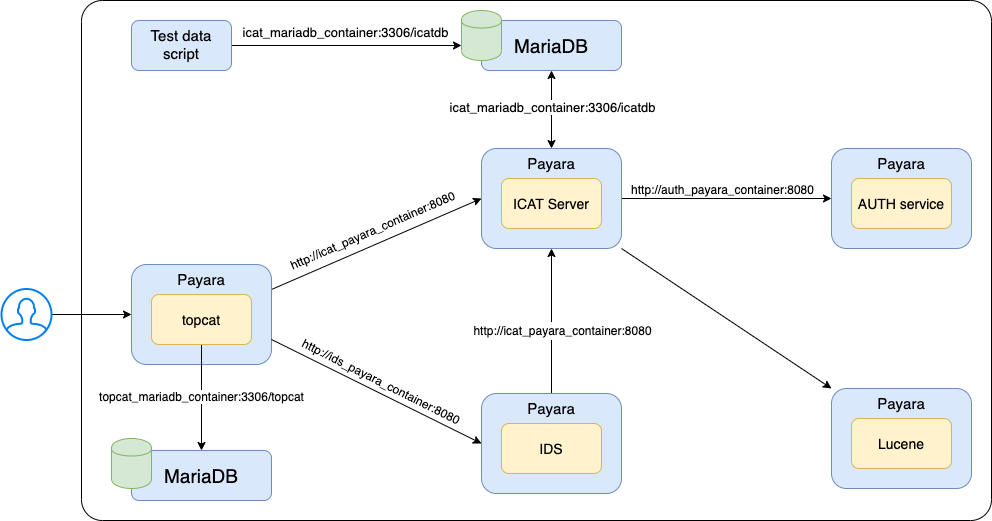
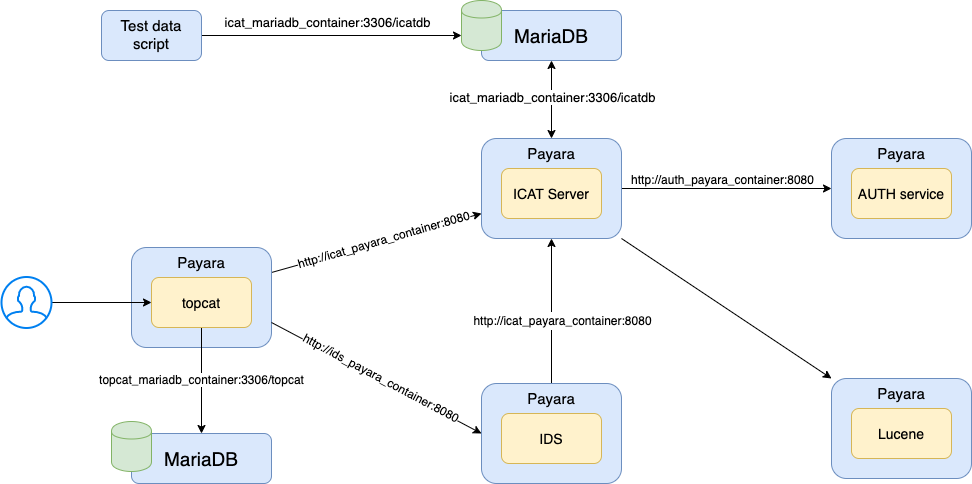
Update to docs

diff --git a/README.md b/README.md
@@ -2,11 +2,17 @@
 
 This project stores the necessary configuration and code changes needed to migrate the ICAT application from a single VM installation to multiple, smaller micro-services.
 
-The included Dockerfiles build on the official payara 5 docker image, installing the necessary system and application configuration, before deploying each component of ICAT in their own application server.
-
 The diagram below shows the various components of ICAT and how they communicate inside the Docker network:
 
+## Topcat Architectural View
+
 <img src="./documentation/images/icat cloud native architecture.png" width="920px" /> 
+
+
+
+## SciGateWay / DataGateWay View
+
+<img src="./documentation/images/icat cloud native architecture_DGW.png" width="920px" /> 
 
 
 
@@ -14,7 +20,7 @@ The diagram below shows the various components of ICAT and how they communicate 
 
 Docker is needed to run the ICAT suite of micro-services.
 
-Google Chrome is needed to be able to log into Topcat.
+**Google Chrome is needed to be able to log into Topcat.**
 
 Once the repository has been checked out, in a terminal, navigate to the folder holding the `docker-compose.yaml`. 
 
@@ -119,16 +125,39 @@ Once running, the container can logged into by either:
 - The Topcat web interface can be access by going to  https://localhost:58181/ 
 
   - Authentication type: **simple**
+
+  - username: **root**
+
+  - Password: **pw**
+
+    
+
+
+### Scigateway & DataGateway
+
+Scigateway can also be used as a front end, in addition to Topcat.
+
+- Once running , can be accessed through http://localhost:3000/
   - username: **root**
   - Password: **pw**
 
-  
+These services consist of:
+
+- **scigateway-auth** available on port 5010
+- **scigateway** available on port 3000
+- **datgateway_dataview** available on port 8081
+- **datgateway_download** available on port 8082
+- **datgateway_search** available on port 8083
+- **datgateway_api** available on port 5052
+  - Needs a version of icat up and running before it starts
 
 ### Test data container
 
 A separate container has been created to assist in adding some test data to be able to test the stack. Using the docker-compose `healthcheck` feature, it waits for the necessary tables to exist in the ICAT database before injecting some random test data. Once it has done this, it stops and the container is exited. This happens  automatically when starting the `docker-compose` stack. 
 
 :information_source: Note that stopping and starting the suite of containers in `docker-compose` may cause certain errors to appear in the output, this is due to the applications trying to re-create tables where they already exist.
+
+
 
 ## Minimum Stack
 
@@ -141,7 +170,7 @@ Due to the various inter-dependancies, the following containers are needed In or
 
 ## Getting data out of the stack
 
-As well as viewing the data through the [Topcat web UI](https://localhost:54747/), curl can also be used to query ICAT directly from your local machine.
+As well as viewing the data through the Topcat or SciGateWay UI interface, curl can also be used to query ICAT directly from your local machine.
 
 - `curl -k --data 'json={"plugin":"simple", "credentials": [{"username":"root"}, {"password": "pw"}]}' -w'\n' https://localhost:18181/icat/session` to get session id
 
@@ -159,15 +188,23 @@ The table below shows how the various components of icat can be accessed both in
 
 :information_source: **The internal URL's are mapped to container names and are set in the docker-compose file**. The database urls cannot be accessed directly over https in the browser.
 
-| Service              | Internal URL                                | Payara Admin URL         | App URL                                       |
-| :------------------- | ------------------------------------------- | ------------------------ | --------------------------------------------- |
-| ICAT server          | http://icat_payara_container:8080           | https://localhost:14747/ | https://localhost:18181/icat/version          |
-| Auth Service         | http://auth_payara_container:8080           | https://localhost:24747/ | https://localhost:28181/authn.simple/version/ |
-| IDS Service          | http://ids_payara_container:8080            | https://localhost:34747/ | https://localhost:38181/ids/version/          |
-| Lucene Service       | http://lucene_payara_container:8080         | https://localhost:44747/ | https://localhost:48181/icat.lucene/version   |
-| Topcat               | -                                           | https://localhost:54747/ | https://localhost:58181/topcat/version/       |
-| ICAT server database | http://icat_mariadb_container:3306/icatdb   | https://localhost:3306/  |                                               |
-| Topcat database      | http://topcat_mariadb_container:3306/topcat | https://localhost:2306/  |                                               |
+:information_source: Scigateway and Topcat are currently only accessible through Google Chrome. 
+
+| Service                    | Internal URL                                | Payara Admin URL         | App URL                                       |
+| :------------------------- | ------------------------------------------- | ------------------------ | --------------------------------------------- |
+| ICAT server                | http://icat_payara_container:8080           | https://localhost:14747/ | https://localhost:18181/icat/version          |
+| Auth Service               | http://auth_payara_container:8080           | https://localhost:24747/ | https://localhost:28181/authn.simple/version/ |
+| IDS Service                | http://ids_payara_container:8080            | https://localhost:34747/ | https://localhost:38181/ids/version/          |
+| Lucene Service             | http://lucene_payara_container:8080         | https://localhost:44747/ | https://localhost:48181/icat.lucene/version   |
+| Topcat                     | Not used                                    | https://localhost:54747/ | https://localhost:58181/                      |
+| ICAT server database       | http://icat_mariadb_container:3306/icatdb   | https://localhost:3306/  |                                               |
+| Topcat database            | http://topcat_mariadb_container:3306/topcat | https://localhost:2306/  |                                               |
+| Scigateway                 | Not used                                    | Not used                 | http://localhost:3000/                        |
+| Scigateway Auth            | Not used                                    | Not used                 | http://localhost:5010/authenticators/         |
+| Datgateway Dataview Plugin | Not used                                    | Not used                 | http://localhost:8081/main.js                 |
+| Datgateway Download Plugin | Not used                                    | Not used                 | http://localhost:8082/main.js                 |
+| Datgateway Search Plugin   | Not used                                    | Not used                 | http://localhost:8083/main.js                 |
+| Datgateway API             | Not used                                    | Not used                 | http://localhost:5020/ping/                   |
 
 
 
@@ -179,7 +216,7 @@ For now, there are two types of configuration to make:
 
 - **Container configuration**: this is applied when the container is created and typically includes urls of other docker services, things that only exist once they have been started.
 
-  
+
 
 ## Trouble shooting
 
